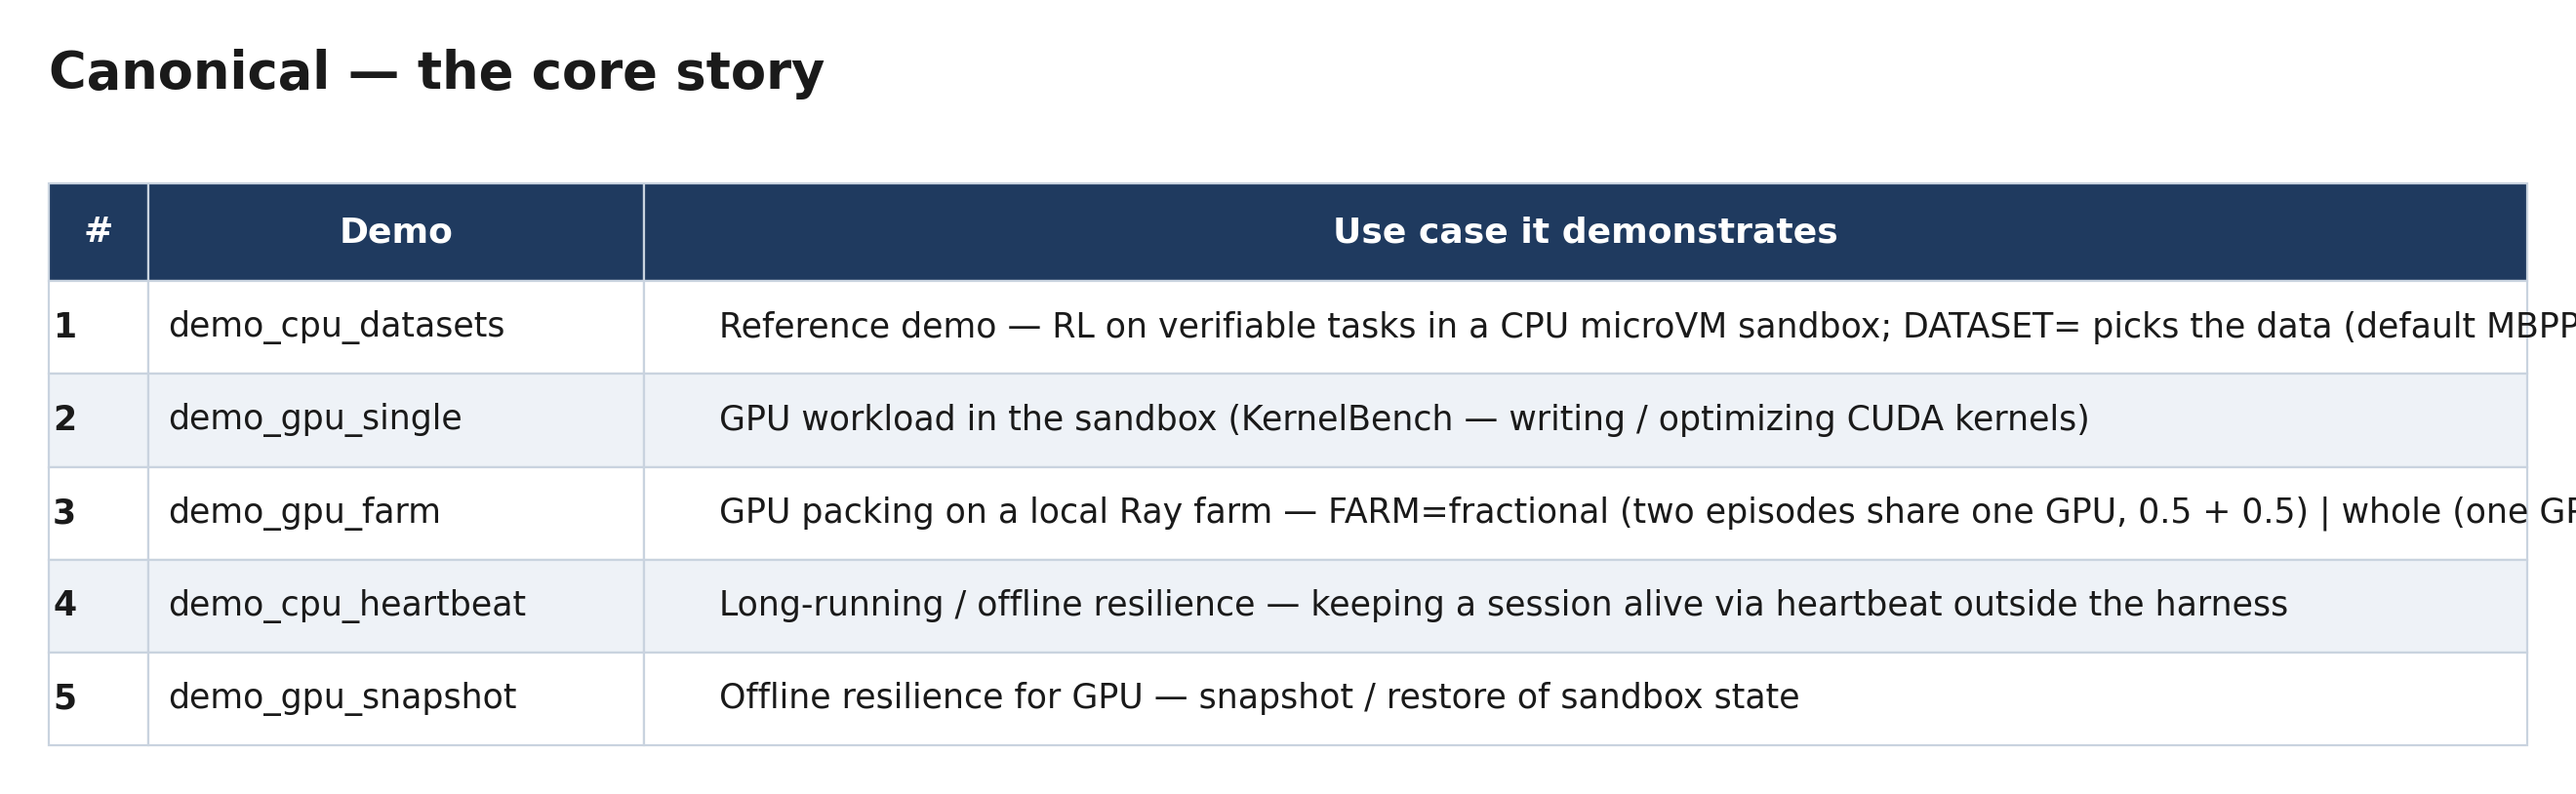
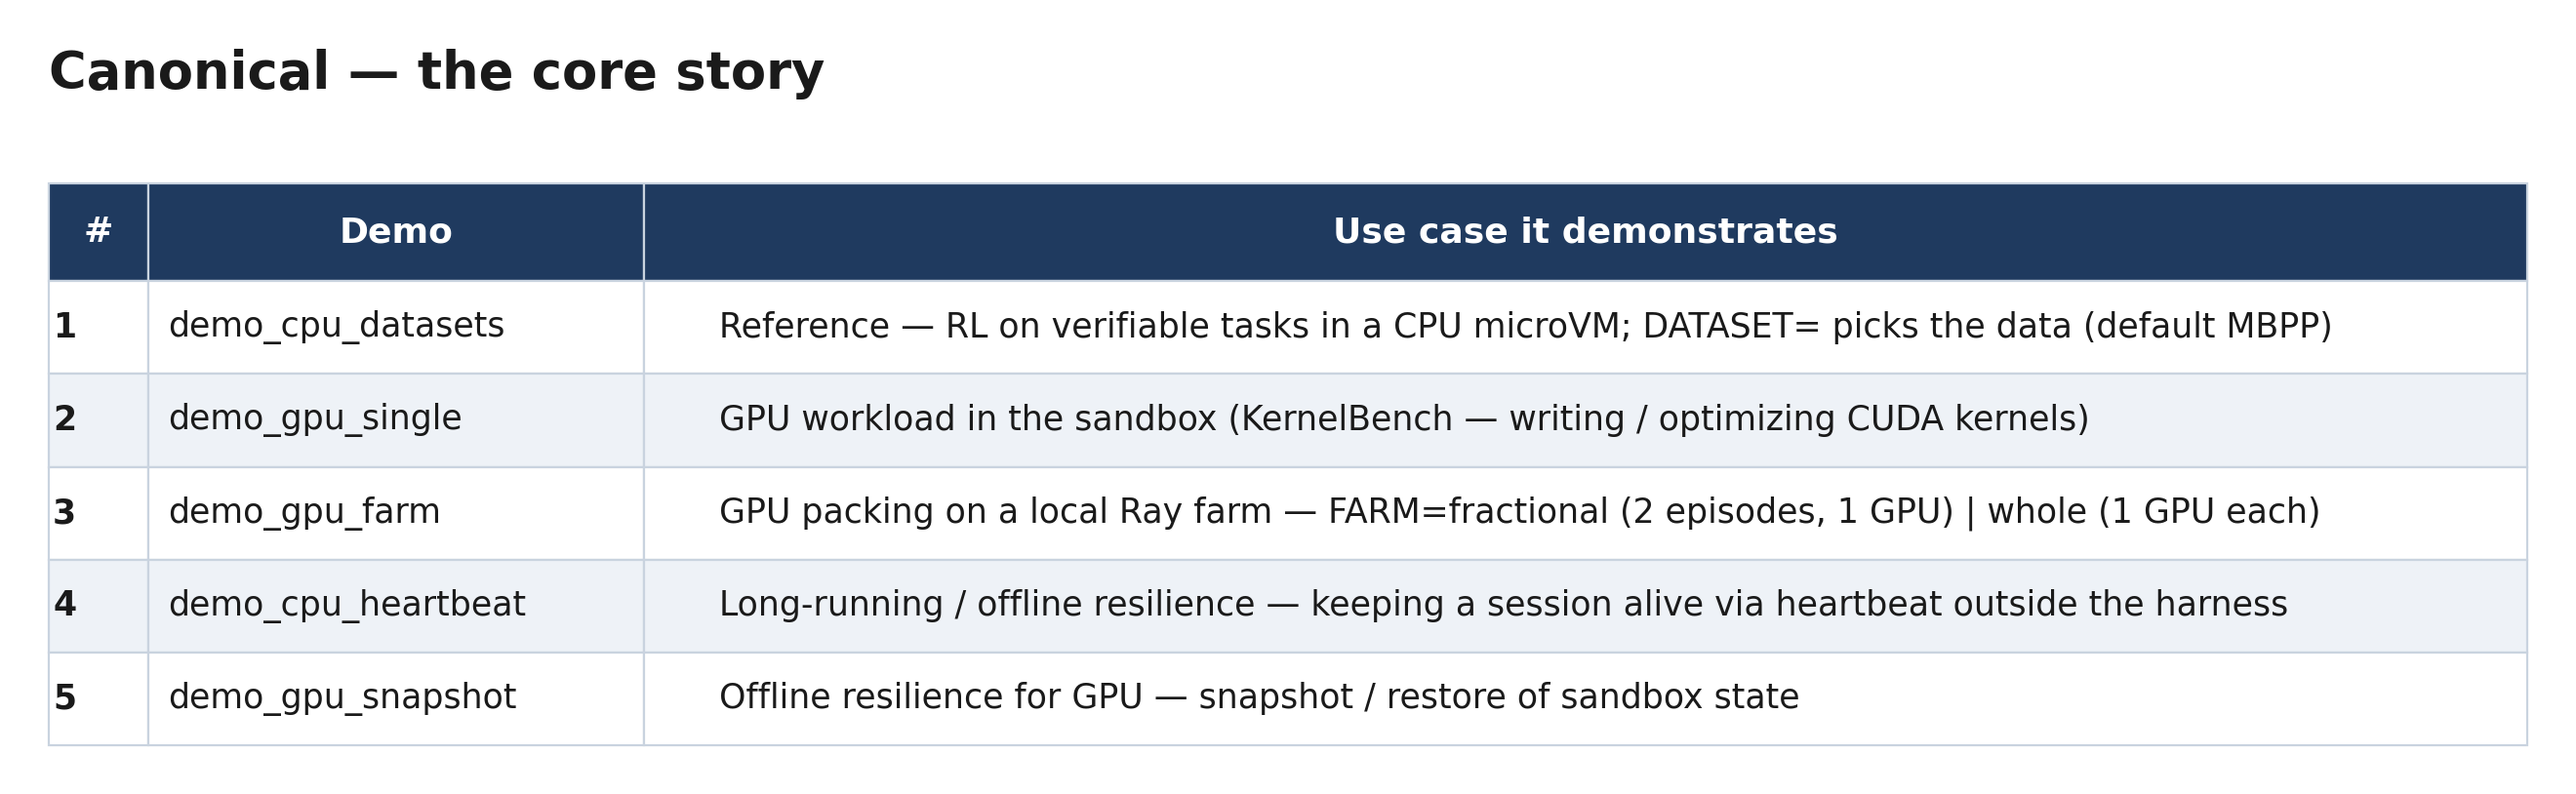
slide_figures: shorten canonical rows that overflowed the table

Changed region(s): [[0.6212, 0.6143, 1.0, 0.6757], [0.3417, 0.3686, 1.0, 0.43]]

diff --git a/slide_figures/make_tables.py b/slide_figures/make_tables.py
@@ -67,9 +67,9 @@ render(
     "Canonical — the core story",
     ["#", "Demo", "Use case it demonstrates"],
     [
-        ["1", "demo_cpu_datasets", "Reference demo — RL on verifiable tasks in a CPU microVM sandbox; DATASET= picks the data (default MBPP)"],
+        ["1", "demo_cpu_datasets", "Reference — RL on verifiable tasks in a CPU microVM; DATASET= picks the data (default MBPP)"],
         ["2", "demo_gpu_single", "GPU workload in the sandbox (KernelBench — writing / optimizing CUDA kernels)"],
-        ["3", "demo_gpu_farm", "GPU packing on a local Ray farm — FARM=fractional (two episodes share one GPU, 0.5 + 0.5) | whole (one GPU each)"],
+        ["3", "demo_gpu_farm", "GPU packing on a local Ray farm — FARM=fractional (2 episodes, 1 GPU) | whole (1 GPU each)"],
         ["4", "demo_cpu_heartbeat", "Long-running / offline resilience — keeping a session alive via heartbeat outside the harness"],
         ["5", "demo_gpu_snapshot", "Offline resilience for GPU — snapshot / restore of sandbox state"],
     ],
